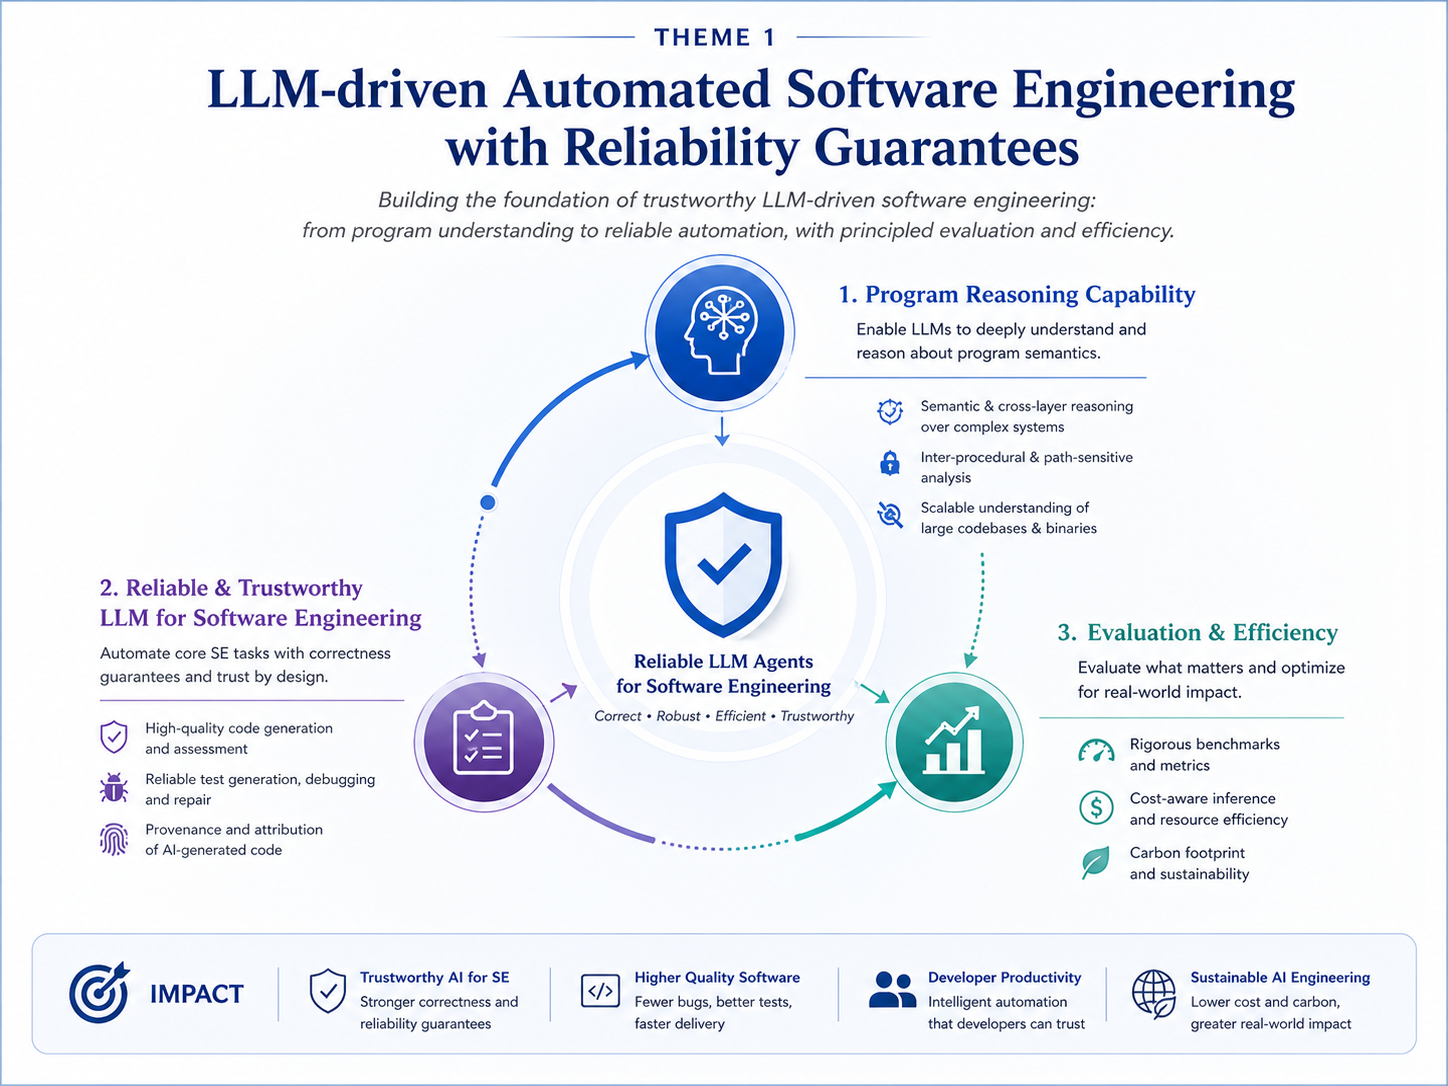
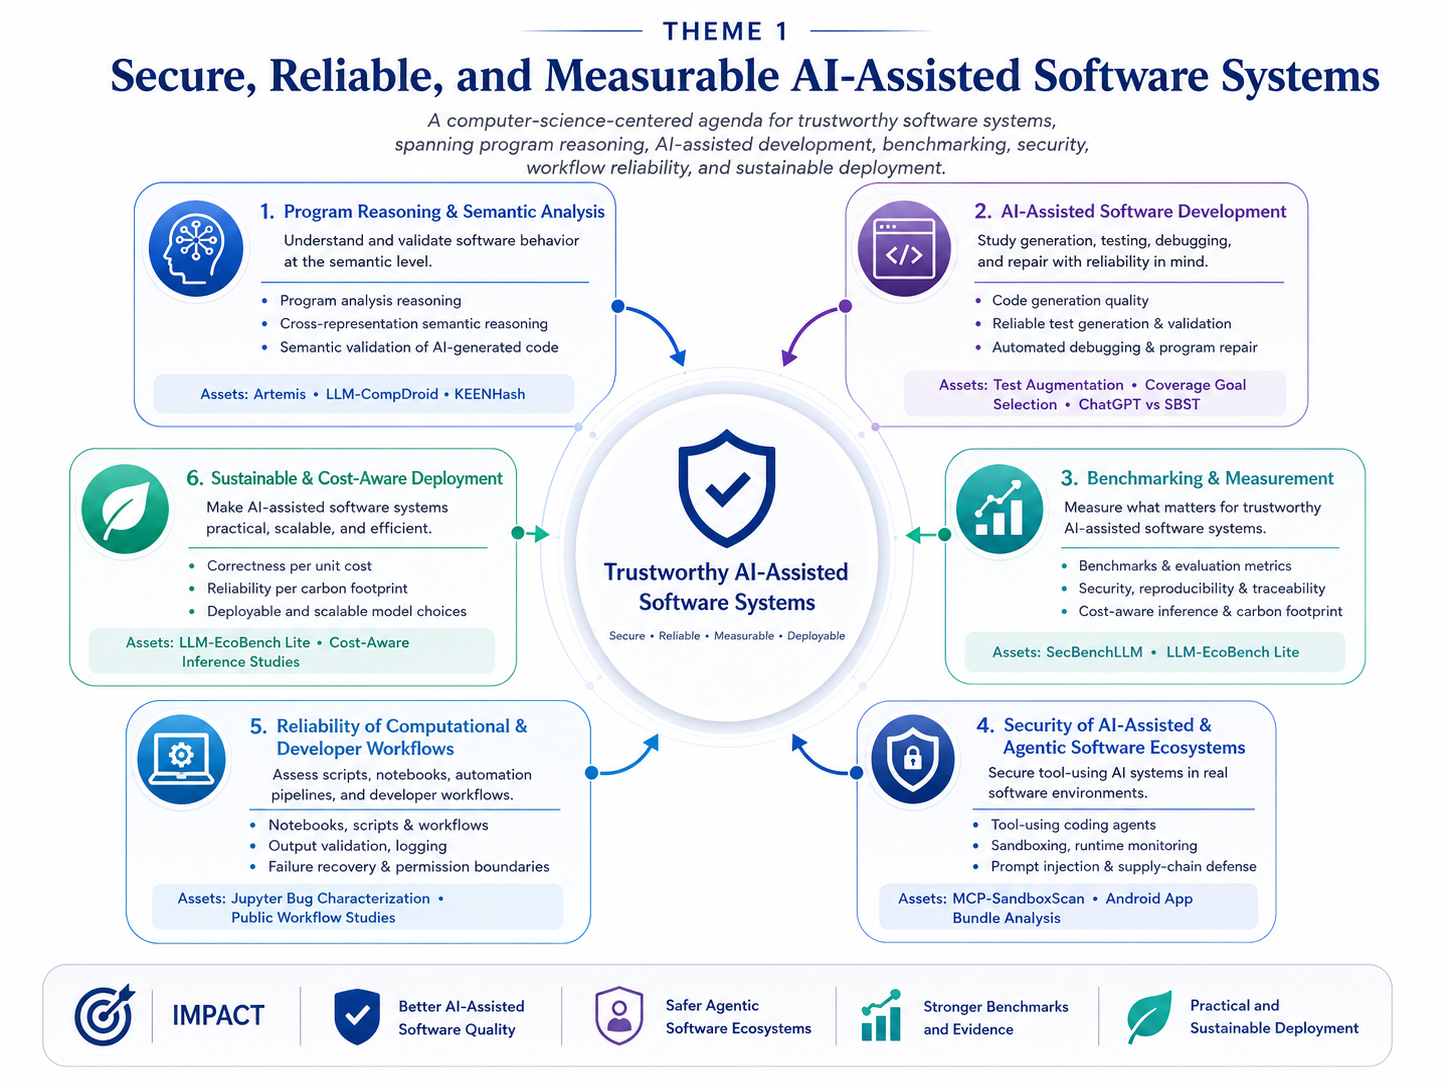
update

diff --git a/pages/research_valued.html b/pages/research_valued.html
@@ -1,0 +1,381 @@
+<!DOCTYPE html>
+<html lang="en"
+>
+<head>
+    <title>Research - Yutian Tang</title>
+    <!-- Using the latest rendering mode for IE -->
+    <meta http-equiv="X-UA-Compatible" content="IE=edge">
+    <meta charset="utf-8">
+    <meta name="viewport" content="width=device-width, initial-scale=1.0">
+
+    <link rel="canonical" href="https://www.chrisyttang.org/pages/publications.html">
+
+    <link rel="shortcut icon" type="image/x-icon" href="../assets/icons/UoG.svg" />
+
+    <meta name="author" content="Yutian Tang" />
+    <meta property="og:site_name" content="Yutian Tang" />
+    <meta property="og:type" content="article"/>
+    <meta property="og:title" content="Research"/>
+    <meta property="og:url" content="https://www.chrisyttang.org/pages/publications.html"/>
+
+
+    <!-- Bootstrap -->
+    
+    <link rel="stylesheet" href="../theme/css/bootstrap.min.css" type="text/css"/>
+    
+    <link href="../theme/css/font-awesome.min.css" rel="stylesheet">
+
+    <link rel="stylesheet" href="../theme/css/style.css" type="text/css"/>
+    <link href="../assets/css/sslab.css" rel="stylesheet">
+
+    
+    <script src="../theme/js/jquery.min.js"></script>
+    <script src="../theme/js/bootstrap.min.js"></script>
+
+   
+</head>
+<body>
+
+<div class="navbar navbar-default navbar-fixed-top" role="navigation">
+    <div class="container">
+        <div class="navbar-header">
+            <button type="button" class="navbar-toggle" data-toggle="collapse" data-target=".navbar-ex1-collapse">
+                <span class="sr-only">Toggle navigation</span>
+                <span class="icon-bar"></span>
+                <span class="icon-bar"></span>
+                <span class="icon-bar"></span>
+            </button>
+        </div>
+        <div class="collapse navbar-collapse navbar-ex1-collapse">
+            <ul id="logo" class="nav navbar-nav"></ul>
+            <ul class="nav navbar-nav">
+                         <li><a href="../index.html">
+                             Home
+                         </a></li>
+                         <li class="dropdown active">
+                            <a href="#" class="dropdown-toggle" data-toggle="dropdown">
+                                Research <b class="caret"></b>
+                            </a>
+                            <ul class="dropdown-menu">
+                                <li class="active"><a href="#">Overview</a></li>
+                                <li><a href="./publications.html">Publications</a></li>
+                                <li><a href="./projects.html">Projects</a></li>  
+                            </ul>
+                        </li>
+                         <li><a href="./teaching.html">
+                             Teaching
+                         </a></li>
+                         <li><a href="./join-our-group.html">
+                             Join us/Supervision
+                         </a></li>
+                         <li><a href="./service.html">
+                             Service
+                         </a></li>
+                         <li><a href="./grants.html">
+                             Grants
+                         </a></li>
+                         <li><a href="./award.html">
+                             Awards/Patents/Copyright</a>
+                         </li>
+                         <li><a href="./misc.html">Resources</a></li>
+            </ul>
+        </div>
+        <!-- /.navbar-collapse -->
+    </div>
+</div> <!-- /.navbar -->
+<!-- Banner -->
+<!-- End Banner -->
+<div class="container">
+    <div class="row">
+        <div class="col-sm-9">
+
+            <section id="content" class="body">
+                <h1 class="entry-title">Research Overview</h1>
+                
+                <div class="entry-content">
+                  <p class="text">
+                    My group studies how AI assisted software systems can be made secure,
+                    reliable, measurable, and deployable. We combine program analysis, empirical
+                    software engineering, software security, mobile ecosystem analysis, and LLM based
+                    automation to build practical methods, benchmarks, and tools for trustworthy
+                    software systems.
+                  </p>
+                  <p>
+                    For the full list of publications, please see <a href="publications.html">here</a>.
+                  </p>
+                    
+                    <!-- ================= THEME 1 ================= -->
+                    <div class="research-section">
+
+                      <h3>Theme 1: Secure, Reliable, and Measurable AI Assisted Software Systems</h3>
+
+                      <p class="text-muted">
+                        This research theme investigates how AI assisted software systems can be made secure, reliable, measurable, and deployable. The core focus remains computer science, particularly software engineering, program analysis, software security, empirical software engineering, and AI assisted software development. As large language models and agentic AI systems are increasingly used to generate, test, repair, debug, and operate software, software engineering needs new methods for semantic reasoning, reliability assessment, security analysis, benchmark design, workflow validation, and cost aware deployment. This work treats AI assistance as part of real software ecosystems rather than isolated text generation.
+                      </p>
+
+                      <div class="research-subsection">
+                        <img src="../assets/img/theme1.png" alt="Theme 1: Secure, Reliable, and Measurable AI Assisted Software Systems" class="theme-image">
+
+                        <h4>Program Reasoning and Semantic Analysis</h4>
+			            <p class="text-muted">
+                        Developing techniques for understanding and validating software behavior at the semantic level. This direction combines program analysis, static analysis, dynamic analysis, taint analysis, configuration analysis, and LLM assisted reasoning to detect defects, security risks, compatibility issues, and behavioral inconsistencies in software systems.
+                        </p>
+
+                        <ul>
+                          <h5>Core capability:</h5>
+			              <li>Program analysis reasoning</li>
+			              <li>Cross representation and cross layer semantic reasoning</li>
+			              <li>Semantic validation of AI generated code and patches</li>
+
+			              <h5>Representative papers and assets:</h5>
+                          <li>Artemis: LLM Assisted inter procedural path sensitive taint analysis (<strong>OOPSLA 2025</strong>, <strong>CCS 2023</strong>) <span class="label label-primary">Top</span></li>
+                          <li>LLM CompDroid: Repairing configuration compatibility bugs (<em>TOSEM 2025</em>)</li>
+                          <li>KEENHash: Large scale binary code similarity analysis (<strong>ISSTA 2025</strong>) <span class="label label-primary">Top</span></li>
+
+                          <h5>Valuable asset to add:</h5>
+                          <li>Semantic validation of AI generated software artifacts in computational workflows, such as notebooks, scripts, and data processing pipelines.</li>
+                        </ul>
+                      </div>
+
+                      <div class="research-subsection">
+                        <h4>AI Assisted Software Generation, Testing, Debugging, and Repair</h4>
+			            <p class="text-muted">
+                        Studying how AI systems support core software engineering activities, including code generation, test generation, automated debugging, program repair, and low code software development. This direction asks when AI assistance improves software quality, when it introduces hidden defects, and how generated artifacts can be systematically evaluated and improved.
+                        </p>
+                        <ul>
+			              <h5>Core capability:</h5>
+			              <li>Quality assessment of AI generated code</li>
+			              <li>Reliable test generation and validation</li>
+			              <li>Automated debugging and program repair</li>
+                          <li>Provenance and attribution of AI generated code</li>
+
+			              <h5>Representative papers and assets:</h5>
+                          <li>Test augmentation (<strong>OOPSLA 2026</strong>) <span class="label label-primary">Top</span></li>
+                          <li>Coverage goal selection (<em>TSE 2024</em>)</li>
+                          <li>Low Code Programming using traditional versus LLM support (JSS 2025)</li>
+                          <li>ChatGPT versus search based software testing (<em>TSE 2024</em>)</li>
+                          <li>Unearthing Gas Wasting Code Smells in Smart Contracts (<em>TSE 2024</em>)</li>
+                          <li>Assessing the Quality of Code Generation by ChatGPT (<em>TSE 2024</em>)</li>
+
+                          <h5>Valuable asset to add:</h5>
+                          <li>A unified AI assisted software construction pipeline that links generation, testing, static analysis, security review, repair validation, and human oversight.</li>
+                        </ul>
+                      </div>
+
+		              <div class="research-subsection">
+			            <h4>Benchmarking and Measurement of AI Assisted Software Systems</h4>
+			            <p class="text-muted">
+                        Developing benchmarks and metrics for evaluating AI assisted software systems. The focus is not only whether an AI system produces a correct answer, but whether the generated software artifact is reliable, secure, reproducible, maintainable, cost efficient, and suitable for deployment.
+                        </p>
+			            <ul>
+			              <h5>Core capability:</h5>
+			              <li>Benchmark design and evaluation metrics</li>
+			              <li>Software correctness, security exposure, reproducibility, and traceability</li>
+			              <li>Cost aware inference and carbon footprint measurement</li>
+
+			              <h5>Representative papers and assets:</h5>
+                          <li>SecBenchLLM, ongoing benchmark project</li>
+                          <li>LLM EcoBench Lite, ongoing benchmark project</li>
+                          <li>Cost aware inference studies and carbon footprint evaluation</li>
+
+                          <h5>Valuable asset to add:</h5>
+                          <li>A benchmark framework that reports test pass rate, incorrect patch risk, newly introduced vulnerabilities, inference cost, review effort, and carbon footprint in the same evaluation table.</li>
+			            </ul>
+ 		              </div>
+
+                      <div class="research-subsection">
+			            <h4>Security of AI Assisted and Agentic Software Ecosystems</h4>
+			            <p class="text-muted">
+                        Studying the security risks introduced when AI systems interact with software tools, repositories, package managers, files, command line environments, APIs, and external services. This direction treats tool using AI systems as part of real software ecosystems and focuses on sandboxing, runtime monitoring, permission control, auditability, and supply chain security.
+                        </p>
+			            <ul>
+			              <h5>Core capability:</h5>
+			              <li>Tool using coding agents and software automation agents</li>
+			              <li>Sandboxing, permission control, runtime monitoring, and audit logging</li>
+			              <li>Prompt injection defense, malicious dependency detection, and data leakage prevention</li>
+
+			              <h5>Representative papers and assets:</h5>
+                          <li>MCP SandboxScan: WASM based secure execution and runtime analysis for MCP tools (CoRR 2026)</li>
+                          <li>Android app bundle analysis (<em>TSE 2025</em>)</li>
+                          <li>Third party library and dependency analysis (<em>ASE 2019</em>, <em>TSE 2021</em>)</li>
+                          <li>Repackaged Apps Detection (SANER 2019)</li>
+                          <li>App Debloat (<em>TSE 2022</em>)</li>
+
+                          <h5>Valuable asset to add:</h5>
+                          <li>A security benchmark for tool using coding agents, covering unsafe execution, prompt injection, dependency attacks, and unintended data exposure.</li>
+			            </ul>
+ 		              </div>
+
+                      <div class="research-subsection">
+			            <h4>Reliability of Computational and Developer Workflows</h4>
+			            <p class="text-muted">
+                        Studying the reliability of software workflows that involve scripts, notebooks, automation tools, data pipelines, and AI agents. This direction focuses on concrete computational and developer workflows, including whether they contain exception handling, output validation, logging, permission boundaries, and failure recovery mechanisms.
+                        </p>
+			            <ul>
+			              <h5>Core capability:</h5>
+			              <li>Reliability analysis of notebooks, scripts, automation pipelines, and developer workflows</li>
+			              <li>Output validation, logging, exception handling, and failure recovery</li>
+			              <li>Permission boundaries and safety checks in AI assisted workflows</li>
+
+			              <h5>Representative papers and assets:</h5>
+                          <li>Bug characterization in Jupyter systems (EASE 2025)</li>
+                          <li>Public workflow reliability study, ongoing empirical project</li>
+
+                          <h5>Valuable asset to add:</h5>
+                          <li>A workflow reliability benchmark for AI generated or AI assisted computational workflows, such as notebooks, scripts, and automation pipelines.</li>
+			            </ul>
+ 		              </div>
+
+                      <div class="research-subsection">
+			            <h4>Sustainable and Cost Aware Deployment of AI Assisted Software Systems</h4>
+			            <p class="text-muted">
+                        Studying the deployment cost, energy use, and carbon footprint of AI assisted software engineering systems. The goal is to make AI assisted software development not only technically effective, but also economically and environmentally sustainable.
+                        </p>
+			            <ul>
+			              <h5>Core capability:</h5>
+			              <li>Correctness per unit cost</li>
+			              <li>Reliability improvement per carbon footprint</li>
+			              <li>Deployable and scalable model choices for software engineering tasks</li>
+
+			              <h5>Representative papers and assets:</h5>
+                          <li>LLM EcoBench Lite, ongoing benchmark project</li>
+                          <li>Cost aware inference studies, ongoing research direction</li>
+                          <li>Carbon footprint evaluation for AI assisted software engineering, ongoing research direction</li>
+
+                          <h5>Valuable asset to add:</h5>
+                          <li>A measurement study comparing small and large models across bug repair, code generation, testing, and workflow generation under accuracy, cost, and carbon constraints.</li>
+			            </ul>
+ 		              </div>
+
+                    </div>
+
+
+                    <!-- ================= THEME 2 ================= -->
+                    <div class="research-section">
+
+                      <h3>Theme 2: Mobile Security and Android Ecosystem Analysis</h3>
+
+                      <p class="text-muted">
+                        Understanding security, privacy risks, and malicious behaviors in large-scale mobile ecosystems through systematic analysis of applications, system mechanisms, and software supply chains.
+                      </p>
+
+                      <div class="research-subsection">
+                        <img src="../assets/img/theme2.png" alt="Theme 2: Mobile Security and Android Ecosystem Analysis" class="theme-image">
+                        <h4>Apps & Android OS Security</h4>
+                        <ul>
+			  <h5>Representative papers:</h5>
+                          <li>Unauthorized encrypted private data transmission (<strong>ICSE 2026</strong>) <span class="label label-primary">Top</span></li>
+                          <li>Mobile Sharing Service Abuse (<strong>WWW 2022</strong>) <span class="label label-primary">Top</span></li>
+                          <li>App Link Attack (<strong>FSE 2020</strong>) <span class="label label-primary">Top</span></li>
+                          <li>Resource Race Attack (SANER 2020)</li>
+                          <li>Diehard Android Apps (<strong>ASE 2020</strong>) <span class="label label-primary">Top</span></li>
+                        </ul>
+                      </div>
+
+                      <div class="research-subsection">
+                        <h4>Malware Detection and Adversarial Analysis</h4>
+
+                        <ul>
+			  <h5>Representative papers:</h5>
+                          <li>Fine-grained malicious component detection (<strong>ASE 2023</strong>) <span class="label label-primary">Top</span></li>
+                          <li>Adversarial attacks on deep learning apps (JSEP 2023)</li>
+                        </ul>
+                      </div>
+
+                      <div class="research-subsection">
+                        <h4>App Ecosystem and Supply Chain Security</h4>
+                        <ul>
+			  <h5>Representative papers:</h5>
+                          <li>Android app bundle analysis (<em>TSE 2025</em>)</li>
+                          <li>Third-party library and dependency analysis (<em>ASE 2019</em>,<em>TSE 2021</em>)</li>
+                          <li>Repackaged Apps Detection (SANER 2019)</li>
+                          <li>App Debloat (<em>TSE 2022</em>)</li>
+                        </ul>
+                      </div>
+
+                    </div>
+
+
+                    <!-- ================= THEME 3 ================= -->
+                    <div class="research-section">
+
+                      <h3>Theme 3: Empirical Software Engineering and User-Centric Analysis</h3>
+
+                      <p class="text-muted">
+                        Conducting large-scale empirical studies to understand software quality, developer behavior, and user feedback.
+                      </p>
+
+                      <div class="research-subsection">
+                        <img src="../assets/img/theme3.png" alt="Theme 3: Empirical Software Engineering and User-Centric Analysis" class="theme-image">
+                        <h4>Bug Analysis and Software Quality</h4>
+                        <ul>
+			  <h5>Representative papers:</h5>
+                          <li>Bug characterization in Jupyter systems (EASE 2025)</li>
+                          <li>Defect prediction and software quality studies (SCP 2025, IJSEKE 2023, ICPADS 2021, WCMC 2021, TReli 2021, SAC 2021, QRS 2020, IST 2020, QRS 2019, ISSRE 2019, JCST 2019, JSS 2019a, JSS 2019b, IST 2018, ICPC 2018)</li>
+                        </ul>
+                      </div>
+
+                      <div class="research-subsection">
+                        <h4>User Review and Feedback Mining</h4>
+                        <ul>
+			  <h5>Representative papers:</h5>
+                          <li>User-review-based bug localization (<em>TSE 2022</em>)</li>
+                          <li>Feedback Analysis in SPL Forked Developments (SPLC 2025)</li>
+                        </ul>
+                      </div>
+
+                      
+
+                    </div>
+
+
+            </section>
+        </div>
+        
+    </div>
+</div>
+<footer>
+   <div class="container">
+      <hr>
+      <div class="row">
+         <div class="col-xs-10">Last Updated: June, 2026
+          
+         </div>
+         <div class="col-xs-2"><p class="pull-right"><a href="#">Back to top</a></p></div>
+      </div>
+   </div>
+</footer>
+    <!-- Include all compiled plugins (below), or include individual files as needed -->
+    <!--
+    <script src="../theme/js/bootstrap.min.js"></script>
+-->
+    <!-- Enable responsive features in IE8 with Respond.js (https://github.com/scottjehl/Respond) -->
+
+    <!-- Email -->
+
+    <!-- Custom -->
+    <script src="../assets/js/custom.js"></script>
+    <script>
+        $('.dropdown').hover(
+            function () {
+                $(this).addClass('open');
+            },
+            function () {
+                $(this).removeClass('open');
+            }
+        );
+    </script>
+
+    <style>
+      .theme-image {
+        width: 800px;
+        height: auto;
+        display: block;
+        border-radius: 12px;
+      }
+    </style>
+
+    
+
+</body>
+</html>
